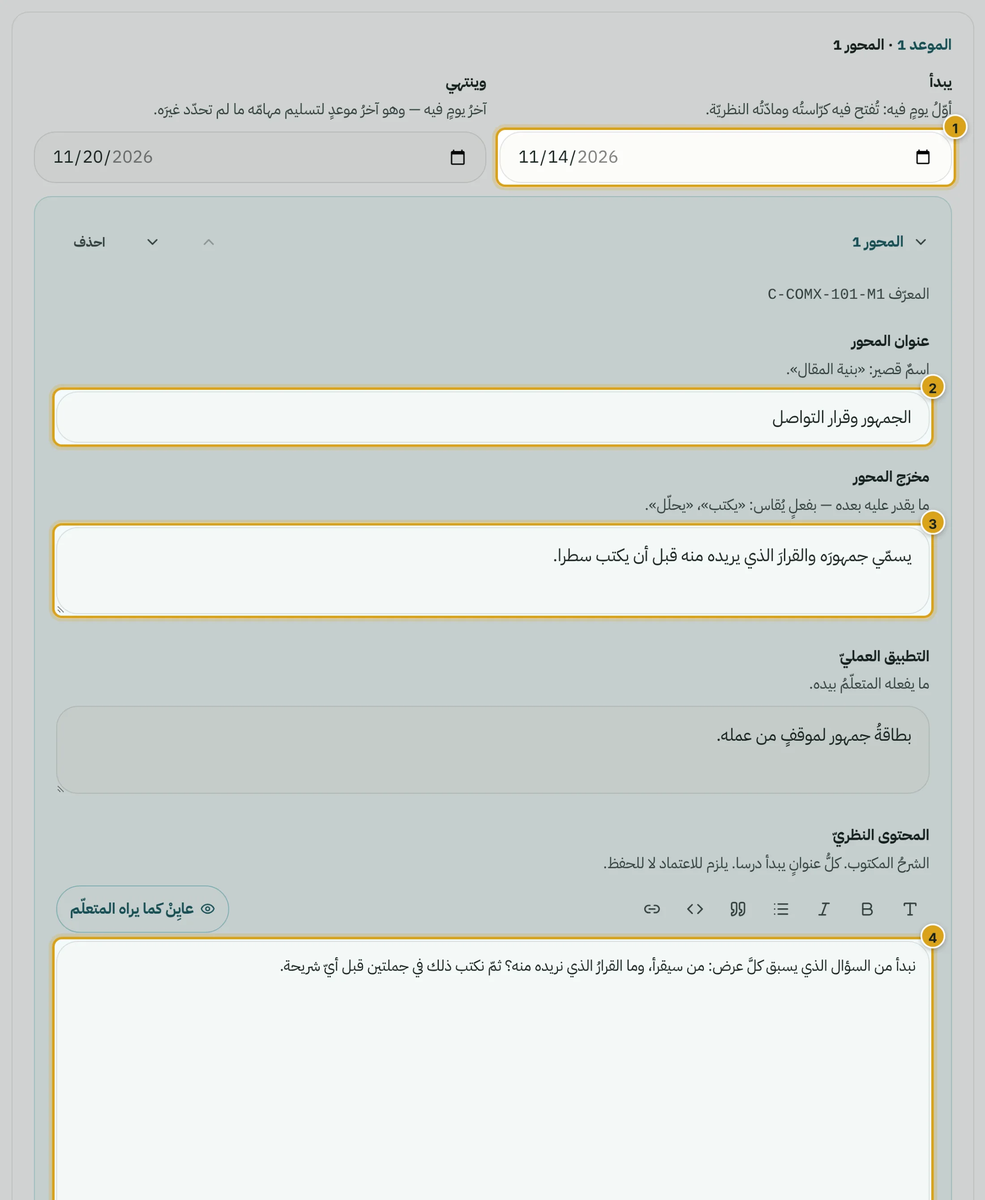
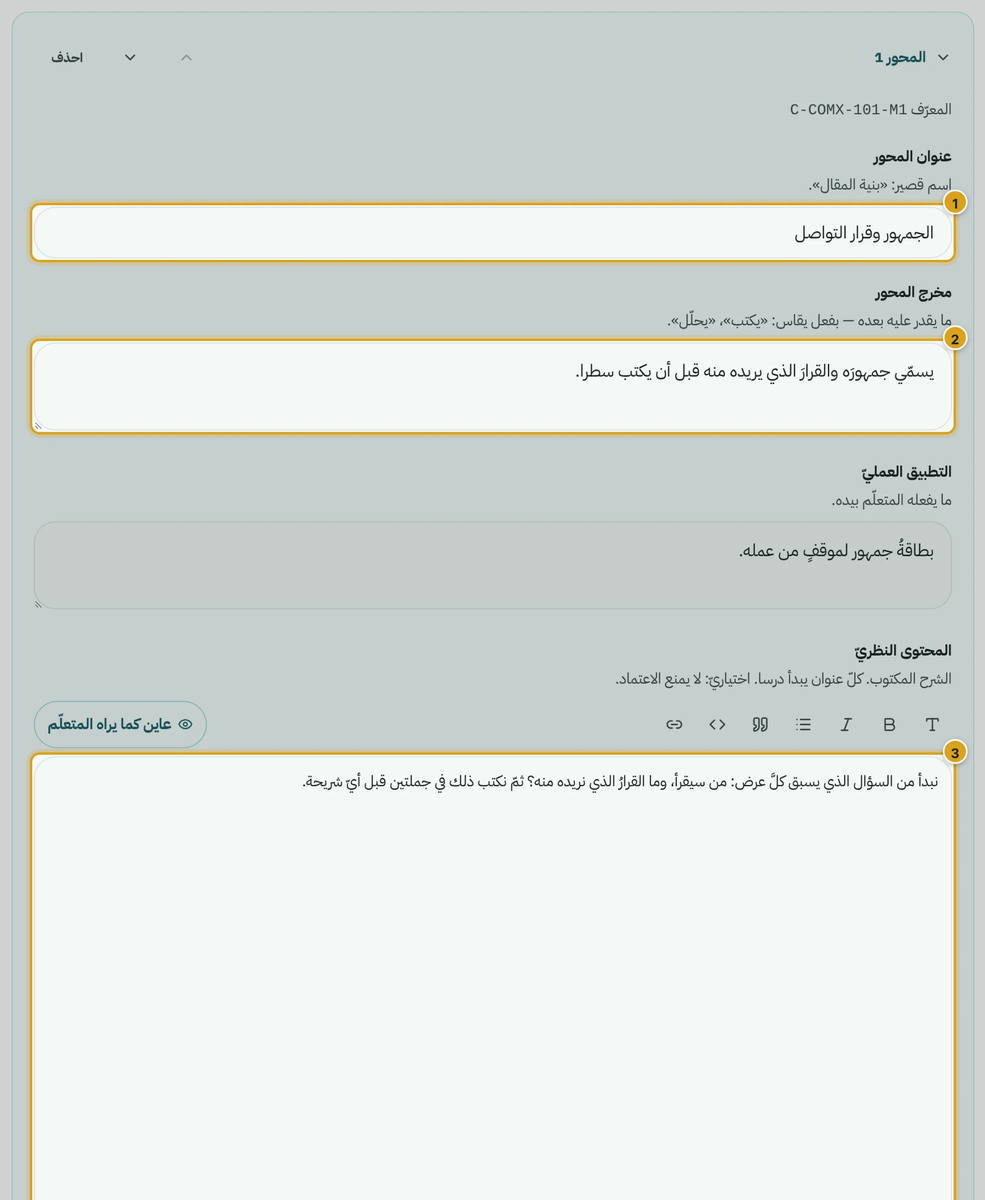
لقطاتُ الدليل بعد «مواعيد المحاور من لقاءاتها» — واللقاءُ الجديدُ على محورٍ واحد
أُعيد التقاطُ أربع لقطاتٍ في دليل المدرّب كانت تُري بطاقاتِ مواعيد المحاور التي نُزعت (#534):
«المحاور» (ws-modules) بطاقةُ المحور نفسُه بثلاثة أرقام، و«لقاءات الشعبة» (ws-meetings) بطاقةٌ
واحدةٌ بمدّة الشعبة، و«نصائح للقاءاتك» (ws-session-tips)، ونموذجُ اللقاء المباشر (ws-live-form).
وبذرُ الدليل يكتب خطّةَ الإعداد معلَّمةً `timing: 'meetings'` بلا مواعيدَ مكتوبة.

وكشف الالتقاطُ خطأً: نموذجُ اللقاء الجديد في بطاقة الشعبة كلِّها كان يُفتح على كلّ المحاور التي
لا لقاءَ لها — فيردّه الخادمُ لأنّه يخالف ترتيبَها (`meetingOrderProblem`). فصار يُفتح على أوّلها
وحدَه، ولا شيءَ إن غُطّيت كلُّها (`defaultMeetingAxes` في `session-picker.ts`). وبطاقةُ الموعد
كما كانت. ويحرسه `src/tests/trainer/session-picker.test.ts` — نُقض مرّتين فسقط: القاعدةُ تعيد
كلَّ ما لم يُغطَّ، والشاشةُ لا تناديها.

ونصوصٌ تبعت التغيير: هدفُ خطوة «اللقاءات» «بترتيب المحاور»، ونصُّ اليدويّ يدلّ على «لقاءات
الشعبة»، وفي الدليل «أيّامُ الشعبة» لا «أيّامُ الموعد»، وما تفحصه المنصّة «لقاءٌ لكلّ محورٍ بترتيب
المحاور»، وتغييرُ تاريخ البدء يُبقي اللقاءاتِ في أيّامها وينبّه إلى ما خرج منها.

لا رقمَ يقبضه إنسانٌ ولا يُخصَم تغيّر هنا.

Claude-Session: https://claude.ai/code/session_01NrSXoERiNEXErX7rsUdC8a

diff --git a/src/data/trainer-guide/content.ts b/src/data/trainer-guide/content.ts
@@ -285,7 +285,7 @@ export const GUIDE_SECTIONS: GuideSection[] = [
          ولشُعب هذا الشتاء وحدَها، كما تقولها الخطوةُ نفسُها (`start-advice.ts`) */
       { kind: 'callout', tone: 'tip', title: 'متى تبدأ؟ اقتراح ودّيّ', text: 'لشعب هذا الشتاء: لو بدأت شعبتك في ديسمبر — أو من 29 نوفمبر على الأقلّ — لاتّسع لنا الوقت لنعرّف الناس بدورتك ونسوّق لها قبل أن تبدأ. اقتراح لا شرط، والقرار قرارك.' },
       { kind: 'callout', tone: 'public', title: 'هذا ما يراه الناس — ولك أن تغيّره', text: 'اسم الشعبة يظهر للناس في صفحة الدورة لحظة تحفظه، بلا اعتماد. والنبذة تظهر بعد أن نعتمد الخطّة. أمّا السعر والسعة والإعداد الماليّ فبيد الإدارة.' },
-      { kind: 'figure', shot: 'ws-modules', alt: 'الخطوة الثانية: موعد المحور الأوّل ومحوره مفتوحا', caption: '1 بداية الموعد ونهايته · 2 «عنوان المحور» · 3 «مخرج المحور» · 4 المحتوى النظريّ' },
+      { kind: 'figure', shot: 'ws-modules', alt: 'الخطوة الثانية: المحور الأوّل مفتوحا', caption: '1 «عنوان المحور» · 2 «مخرج المحور» · 3 المحتوى النظريّ' },
       {
         kind: 'steps',
         title: 'الخطوة الثانية — «المحاور»',
@@ -302,20 +302,20 @@ export const GUIDE_SECTIONS: GuideSection[] = [
       { kind: 'callout', tone: 'tip', title: 'ابدأ من قالب وجيز', text: 'في أعلى الخطوة قالب وجيز بصيغة Word مملوءا بما كتبته في خطّتك: اسم الدورة ومدّتها ومحاورها ومواعيدها، ولكلّ محور ما يخرج به المتعلّم ومحتواه النظريّ وتطبيقه ومصادره — وفي «كرّاسة لكلّ محور» قالب كلّ كرّاسة في بطاقتها. أكمل ما بقي بين قوسين — المثال المحلول وأسئلة التأمّل — ثمّ احفظه PDF وارفعه، واختر تحته «كتبتها على قالب وجيز». والقالب يملأ بما حفظته، فاحفظ خطّتك قبل أن تنزّله.' },
       { kind: 'callout', tone: 'tip', title: 'وعندك مادّة جاهزة؟', added: '2026-10-07', text: 'ارفعها كما هي، واختر تحتها «مادّتي الجاهزة» — لا يلزمك أن تعيد صفّها على القالب. والفرق: القالب يجعل كرّاسات وجيز بشكل واحد يعرف به المتعلّم طريقه في كلّ دورة؛ ومادّتك الجاهزة يراها المعتمد ليست على القالب، فيقبلها أو يعيدها إليك بملاحظة. وأن تقول أيّهما شرط لتتمّ الخطوة، إلّا لمن رفع كرّاسة قبل القالب فهو له مستحسن.' },
       { kind: 'callout', tone: 'contract', title: WORKBOOK_RIGHTS_AR.title, added: '2026-10-07', text: WORKBOOK_RIGHTS_AR.body },
-      { kind: 'figure', shot: 'ws-meetings', alt: 'الخطوة الرابعة: لقاء المحور الأوّل بانتظار الاعتماد', caption: '1 لقاء حفظته وينتظر الاعتماد · 2 «+ لقاء مباشر» · 3 «+ جلسة مسجّلة» — متجاوران في قائمة واحدة، وما شئت من كلّ منهما' },
+      { kind: 'figure', shot: 'ws-meetings', alt: 'الخطوة الرابعة: لقاءات الشعبة بانتظار الاعتماد', caption: '1 لقاء حفظته وينتظر الاعتماد · 2 «+ لقاء مباشر» · 3 «+ جلسة مسجّلة» — متجاوران في قائمة واحدة، وما شئت من كلّ منهما' },
       {
         kind: 'steps',
         title: 'الخطوة الرابعة — «اللقاءات»',
         items: [
           { text: 'لكلّ محور لقاء مباشر واحد على الأقلّ، واللقاءات بترتيب المحاور: أوّل لقاء لكلّ محور بعد آخر لقاء لما قبله. وأضف بعد ذلك ما شئت من اللقاءات.' },
           { text: 'في «لقاءات الشعبة» قائمة واحدة: «+ لقاء مباشر» و«+ جلسة مسجّلة» متجاوران — أضف واحدا منهما أو الاثنين، وما شئت من كلّ منهما.' },
-          { text: 'اضغط «+ لقاء مباشر»: اختر المحور من القائمة باسمه — محورا أو أكثر — ثمّ اليوم، ثمّ من الساعة إلى الساعة بتوقيت عمّان، ثمّ «احفظ اللقاء». والعنوان اختياريّ: إن تركته فارغا سمّيناه باسم محوره. ويعتمد اللقاء مع خطّتك حين ترسلها.', detail: 'قائمة الأيّام فيها أيّام الموعد وحدها، وأوّل ثلاثة منها «الأنسب» لأنّ المهامّ تفتح بعد اللقاء. واللقاء ساعتان على الأقلّ. ولتغيير يوم لقاء حفظته اضغط «غيّر موعده» — من أيّام الموعد نفسها. وباعتماده ينشأ اجتماع Zoom تلقائيّا.' },
+          { text: 'اضغط «+ لقاء مباشر»: اختر المحور من القائمة باسمه — محورا أو أكثر — ثمّ اليوم، ثمّ من الساعة إلى الساعة بتوقيت عمّان، ثمّ «احفظ اللقاء». والعنوان اختياريّ: إن تركته فارغا سمّيناه باسم محوره. ويعتمد اللقاء مع خطّتك حين ترسلها.', detail: 'قائمة الأيّام فيها أيّام الشعبة وحدها. واللقاء ساعتان على الأقلّ. ولتغيير يوم لقاء حفظته اضغط «غيّر موعده» — من أيّام الشعبة نفسها. وباعتماده ينشأ اجتماع Zoom تلقائيّا.' },
           { text: 'وإن أردت إيقاعا ثابتا فاختر «تكرار أسبوعيّ (اختياريّ)» في رأس الخطوة: يوم وساعة مرّة واحدة، فيقترح لقاء في كلّ أسبوع لمحاوره التي لا لقاء لها — تعدّل أيّها ثمّ تحفظها.', detail: 'واليوم والساعة يعلّمان في المنتقي نفسه: يوم عمل، أو عطلة رسميّة (٢٥ ديسمبر و١ يناير)، أو وقت متأخّر. علامة تنصح ولا تمنع.' },
           { text: 'والجلسة المسجّلة اختياريّة: اسمها ورابطها، ومحورها من القائمة باسمه، ويوم فتحها من أيّام الشعبة. وتحفظ مع خطّتك بزرّ «احفظ».' },
         ],
       },
       { kind: 'figure', shot: 'ws-live-form', alt: 'نموذج إضافة لقاء مباشر', caption: 'نموذج اللقاء المباشر — ثمّ «احفظ اللقاء» (1)' },
-      { kind: 'figure', shot: 'ws-session-tips', alt: 'نصائح للقاءات في رأس خطوة «اللقاءات»', caption: '«نصائح للقاءاتك» في رأس الخطوة (1): ما شئت من اللقاءات، كلّ في وقت محاوره — ولا تكثر.' },
+      { kind: 'figure', shot: 'ws-session-tips', alt: 'نصائح للقاءات في رأس خطوة «اللقاءات»', caption: '«نصائح للقاءاتك» في رأس الخطوة (1): ما شئت من اللقاءات، بترتيب المحاور.' },
       /* «لا تُكثر من اللقاءات، أو اجمعها — أو اترك ذلك لي حين أعتمد» (٤ أكتوبر ٢٠٢٦) */
       { kind: 'callout', tone: 'tip', title: 'كم لقاء تضيف؟', text: 'ما شئت، ولا حدّ لعددها: ساعات أكثر جودة أعلى، فأضف ما استطعت. ولقاء واحد قد يغطّي محورين متجاورين أو أكثر إن ناسبك ذلك. وفي رأس الخطوة «نصائح للقاءاتك»، ونراجع لقاءاتك معك قبل الاعتماد.' },
       { kind: 'figure', shot: 'ws-tab-tasks', alt: 'الخطوة الخامسة: لسان المهامّ العمليّة ونموذج مهمّة بمرفق نوعه ملفّ', caption: '1 الألسنة الثلاثة — والنقطة الذهبيّة على ما لم يتمّ · 2 تعليمات اللسان وتوصياته · 3 نوع المرفق أوّلا: «ملفّ» يظهر «ارفع الملفّ»، وغيره خانة الرابط' },
@@ -762,7 +762,7 @@ export const FAQ: FaqItem[] = [
   { q: 'اعتمد توقيعي — فهل صرت مدرّبا نشطا؟', a: 'ليس بعد. اعتماد التوقيع يفتح بوّابتك ويبدأ مهلتك، ولا نوقّع به العقد. وتفعّل تلقائيّا حين نعتمد شعب دوراتك التي قبلتها كلّها، وتصلك بذلك رسالة مستقلّة.' },
   { q: 'متى توقّع الأكاديميّة عقدي؟', a: 'حين نعتمد دوراتك. قبلها اعتمدنا توقيعك وفتحنا بوّابتك، والاتفاقيّة مشروطة لم نوقّعها — فإن لم تعتمد موادّك فلا إخلال من أحد. وحين نوقّعها تصير عقدا نهائيّا غير مشروط، وتصلك نسختها بتوقيع الطرفين.' },
   { q: 'أين أكتب موادّ دوراتي؟', a: 'في «شعبي»، مرّة واحدة. اقبل الدورة في «دوراتي» تحت «دوراتك قيد الإعداد»، فتنشأ لها شعبة إعداد في «شعبي» تعبّئ فيها كلّ شيء ثمّ ترسلها — [خمسة أيّامك الأولى](#materials).' },
-  { q: 'ما الذي يجعل موادّي جيّدة لا مقبولة فقط؟', a: `المنصّة تفحص الحدّ الأدنى وحده — مواعيد المحاور وتطبيقها، ومهمّة واحدة على الأقلّ. وما يجعلها جيّدة، خانة خانة بأمثلة، في [معيار الموادّ](#standard): توصيات لا شروط، والقرار فيها قرارك.` },
+  { q: 'ما الذي يجعل موادّي جيّدة لا مقبولة فقط؟', a: `المنصّة تفحص الحدّ الأدنى وحده — لقاء لكلّ محور بترتيب المحاور، وتطبيق كلّ محور، ومهمّة واحدة على الأقلّ. وما يجعلها جيّدة، خانة خانة بأمثلة، في [معيار الموادّ](#standard): توصيات لا شروط، والقرار فيها قرارك.` },
   { q: 'لا أستطيع تعديل دورتي من «دوراتي» — لماذا؟', a: 'لأنّ «دوراتي» لا تعدّل فيها الدورة بعد اعتماد موادّها. تعديلها في «شعبي»: افتح الشعبة، وعبّئ خطواتها الستّ، ثمّ أرسلها لاعتمادنا — [مساحة الشعبة](#workspace). وإن لم تكن لك شعبة فيها فاقبلها في «دوراتي» — تحت «دوراتك قيد الإعداد» أو «دوراتك التي تعبّئها» — فتنشأ شعبتها.' },
   { q: 'ضغطت «امنحني يومين» خطأ — هل يستردّ؟', a: 'لا. وكلّ ضغطة تمديد من اثنين. فإن بقي لك تمديد فلا تضغطه إلّا حين تحتاجه.' },
   { q: 'انقضت مهلتي — هل انتهى الأمر؟', a: 'لا. ما زال إرسال شعبك يعمل إن أتممتها، ولك أن تطلب التأجيل إلى الموسم القادم بالردّ على رسالة انقضاء المهلة.' },
@@ -773,5 +773,5 @@ export const FAQ: FaqItem[] = [
   { q: 'متى تصرف مستحقّاتي؟', a: 'يعتمد كشف الشعبة خلال 15 يوما من انتهائها، ويصرف خلال 30 يوما من اعتماده، ولا يتجاوز 45 يوما من انتهائها. وقبل ذلك أدخل حسابك البنكيّ في «مستحقاتي».' },
   { q: 'كيف أبدأ لقائي في Zoom مضيفا؟', a: 'من مساحة الشعبة، خطوة «اللقاءات»: «ابدأ اللقاء مضيفا». لا من «افتح الجلسة» في الرئيسية.' },
   { q: 'هل لعدد لقاءاتي المباشرة حدّ؟', a: 'لا. أضف ما شئت — ساعات أكثر جودة أعلى — واربط كلّ لقاء بمحور أو أكثر، بترتيب المحاور — [خطوة «اللقاءات»](#workspace).' },
-  { q: 'متى أبدأ شعبتي؟', a: 'المدّة قرارك. ولشعب هذا الشتاء نقترح ديسمبر، أو 29 نوفمبر على الأقلّ — فيتّسع لنا الوقت لنسوّق دورتك قبل أن تبدأ. وإن غيّرت تاريخ البدء تبعته مواعيد المحاور.' },
+  { q: 'متى أبدأ شعبتي؟', a: 'المدّة قرارك. ولشعب هذا الشتاء نقترح ديسمبر، أو 29 نوفمبر على الأقلّ — فيتّسع لنا الوقت لنسوّق دورتك قبل أن تبدأ. وإن غيّرت تاريخ البدء بقيت لقاءاتك في أيّامها، ونبّهناك إلى ما خرج منها من المدّة لتغيّر موعده.' },
 ]

diff --git a/scripts/trainer-guide/capture.ts b/scripts/trainer-guide/capture.ts
@@ -329,16 +329,18 @@ const ACTIVE: Shot[] = [
       const p = e.page
       await open(e, `/trainer/cohort/${await cohortId(e, 'الدفعةُ الأولى')}`)
       await step(e, 2)
-      const slot = p.getByRole('listitem').filter({ has: p.getByText('الموعد 1 · المحور 1', { exact: true }) }).first()
-      await btn(slot, /^المحور 1 —/).click()
+      /* ومنذ ١٧ أكتوبر ٢٠٢٦ لا موعدَ للمحور في هذه الخطوة — مواعيدُه من لقاءاته (`planSlots`):
+         فالبطاقةُ بطاقةُ المحور نفسُه، والأرقامُ ثلاثةٌ لا أربعة */
+      /* والعنوانُ يسقط من زرّ المحور حين يُفتح — فالبطاقةُ تُعرَف بخانة عنوانها بعد الفتح */
+      await btn(p, /^المحور 1 —/).click()
       await settle(e)
+      const card = p.getByRole('listitem').filter({ has: p.getByRole('textbox', { name: 'عنوان المحور 1' }) }).first()
       await shoot(e, {
-        name: 'ws-modules', clip: slot, clipPad: 14, maxHeight: 1450,
+        name: 'ws-modules', clip: card, clipPad: 14, maxHeight: 1450,
         marks: [
-          { target: slot.getByRole('textbox', { name: 'بدايةُ الموعد 1' }), n: 1, pad: 5 },
-          { target: slot.getByRole('textbox', { name: 'عنوان المحور 1' }), n: 2, pad: 5 },
-          { target: slot.getByRole('textbox', { name: 'مخرج المحور 1' }), n: 3, pad: 5 },
-          { target: slot.getByRole('textbox', { name: 'المحتوى النظريّ للمحور 1' }), n: 4, pad: 5 },
+          { target: card.getByRole('textbox', { name: 'عنوان المحور 1' }), n: 1, pad: 5 },
+          { target: card.getByRole('textbox', { name: 'مخرج المحور 1' }), n: 2, pad: 5 },
+          { target: card.getByRole('textbox', { name: 'المحتوى النظريّ للمحور 1' }), n: 3, pad: 5 },
         ],
       })
     },
@@ -376,13 +378,14 @@ const ACTIVE: Shot[] = [
       const p = e.page
       await open(e, `/trainer/cohort/${await cohortId(e, 'الدفعةُ الأولى')}`)
       await step(e, 4)
-      const slot = p.getByRole('listitem').filter({ has: p.getByText('الموعد 1 · المحور 1', { exact: true }) }).first()
+      /* بطاقةٌ واحدةٌ بمدّة الشعبة ومحاورها كلِّها (١٧ أكتوبر ٢٠٢٦) — والنصوصُ بلا تشكيل (١١ أكتوبر) */
+      const card = p.getByRole('listitem').filter({ has: p.getByText('لقاءات الشعبة', { exact: true }) }).first()
       await shoot(e, {
-        name: 'ws-meetings', clip: slot, clipPad: 14,
+        name: 'ws-meetings', clip: card, clipPad: 14, maxHeight: 2400,
         marks: [
-          { target: slot.getByText(/ينتظر اعتمادَ الإدارة/).first(), n: 1, pad: 5 },
-          { target: btn(slot, /لقاءٌ مباشر/), n: 2, pad: 5 },
-          { target: btn(slot, /جلسةٌ مسجّلة/), n: 3, pad: 5 },
+          { target: card.getByText(/· ينتظر اعتماد الإدارة$/).first(), n: 1, pad: 5 },
+          { target: btn(card, /^\+ لقاء مباشر/), n: 2, pad: 5 },
+          { target: btn(card, /^\+ جلسة مسجّلة/), n: 3, pad: 5 },
         ],
       })
     },
@@ -394,7 +397,7 @@ const ACTIVE: Shot[] = [
       const p = e.page
       await open(e, `/trainer/cohort/${await cohortId(e, 'الدفعةُ الأولى')}`)
       await step(e, 4)
-      const title = p.getByText('نصائحُ للقاءاتك').first()
+      const title = p.getByText('نصائح للقاءاتك').first()
       await shoot(e, {
         name: 'ws-session-tips', clip: p.locator('section').filter({ has: title }).first(), clipPad: 14,
         marks: [{ target: title, n: 1, pad: 5 }],
@@ -407,10 +410,10 @@ const ACTIVE: Shot[] = [
       const p = e.page
       await open(e, `/trainer/cohort/${await cohortId(e, 'الدفعةُ الأولى')}`)
       await step(e, 4)
-      const slot = p.getByRole('listitem').filter({ has: p.getByText('الموعد 2 · المحور 2', { exact: true }) }).first()
-      await btn(slot, /لقاءٌ مباشر/).click()
+      const card = p.getByRole('listitem').filter({ has: p.getByText('لقاءات الشعبة', { exact: true }) }).first()
+      await btn(card, /^\+ لقاء مباشر/).click()
       await settle(e)
-      const send = btn(slot, /احفظ اللقاء/)
+      const send = btn(card, /احفظ اللقاء/)
       await shoot(e, {
         name: 'ws-live-form', clip: await panel(send, 500), clipPad: 14,
         marks: [{ target: send, n: 1, pad: 5 }],

diff --git a/src/tests/trainer/session-picker.test.ts b/src/tests/trainer/session-picker.test.ts
@@ -9,7 +9,7 @@ import { readFileSync } from 'node:fs'
 import { join } from 'node:path'
 import { describe, expect, it } from 'vitest'
 import {
-  dayNoteAr, firstWeekdayIn, fromClockNote, holidayOn, isWorkday, lateInSlot, suggestedSessionTitle, toClockNote, weeklyProposals, slotDayOptionAr, slotDays } from '@/application/trainer/session-picker'
+  dayNoteAr, defaultMeetingAxes, firstWeekdayIn, fromClockNote, holidayOn, isWorkday, lateInSlot, suggestedSessionTitle, toClockNote, weeklyProposals, slotDayOptionAr, slotDays } from '@/application/trainer/session-picker'
 
 const code = (p: string) =>
   readFileSync(join(process.cwd(), p), 'utf8').replace(/\{?\/\*[\s\S]*?\*\/\}?/g, '').replace(/^\s*\/\/.*$/gm, '')
@@ -105,6 +105,21 @@ describe('النموذج فارغ — المدرّب يكتب، والمنصّة
   it('ولا يحفظ لقاء قبل أن يختار يومه وساعتاه', () => {
     expect(SLOT).toMatch(/const timed = Boolean\(form\.date && form\.from && form\.to\);/)
     expect(SLOT).toMatch(/disabled=\{busy \|\| title\.length < 2 \|\| !timed \|\|/)
+  })
+
+  /* مواعيدُ المحاور من لقاءاتها (١٧ أكتوبر ٢٠٢٦): لقاءٌ جديدٌ على كلّ المحاور يخالف ترتيبَها فيُردّ */
+  it('⚠ في بطاقة الشعبة كلّها: أوّل محور بلا لقاء وحده — ولا شيء إن غطّيت كلّها', () => {
+    const axes = ['M1', 'M2', 'M3', 'M4']
+    expect(defaultMeetingAxes(axes, new Set(['M1']), true), 'فتح على كلّ ما لم يغطّ').toEqual(['M2'])
+    expect(defaultMeetingAxes(axes, new Set(), true)).toEqual(['M1'])
+    expect(defaultMeetingAxes(axes, new Set(axes), true), 'اختار عنه وكلّها مغطّاة').toEqual([])
+    expect(SLOT, 'الشاشة لا تأخذ محاورها من القاعدة').toMatch(/moduleIds: defaultMeetingAxes\(axes, covered, wholePeriod\),/)
+  })
+
+  it('وفي بطاقة الموعد كما كانت: ما لم يغطّ من محاوره — وكلّها إن غطّيت', () => {
+    const axes = ['M1', 'M2', 'M3']
+    expect(defaultMeetingAxes(axes, new Set(['M1']), false)).toEqual(['M2', 'M3'])
+    expect(defaultMeetingAxes(axes, new Set(axes), false)).toEqual(axes)
   })
 
   it('والزرّ «احفظ اللقاء» — لا «أرسله للاعتماد» في كلّ لقاء', () => {

diff --git a/src/application/trainer/session-picker.ts b/src/application/trainer/session-picker.ts
@@ -122,6 +122,17 @@ export function suggestedSessionTitle(
   return parts.join(' · ')
 }
 
+/* ═══ محاورُ اللقاء الجديد قبل أن يختار المدرّب (١٧ أكتوبر ٢٠٢٦) ═══
+
+   في بطاقة الموعد: ما لم يُغطَّ من محاوره — وكلُّها إن غُطّيت. وفي بطاقة الشعبة كلِّها (مواعيدُ
+   المحاور من لقاءاتها، `planSlots`): أوّلُ ما لم يُغطَّ وحدَه — فلقاءٌ يُفتح على كلّ المحاور يخالف
+   ترتيبَها، ويردّه الخادمُ (`meetingOrderProblem`). وإن غُطّيت كلُّها فلا شيء: يختار هو. */
+export function defaultMeetingAxes(axes: readonly string[], covered: ReadonlySet<string>, wholePeriod: boolean): string[] {
+  const uncovered = axes.filter((id) => !covered.has(id))
+  if (wholePeriod) return uncovered.slice(0, 1)
+  return uncovered.length > 0 ? uncovered : [...axes]
+}
+
 /* ═══ أيّامُ الموعد وحدَها — لا تقويمٌ مفتوح (١١ أكتوبر ٢٠٢٦) ═══
 
    قرارُ صاحب المنصّة: «يومُ اللقاء المباشر، ويومُ فتح الجلسة المسجّلة، داخلَ وقت المحور. جرّبتُه

diff --git a/src/pages/trainer/CohortWorkspace.tsx b/src/pages/trainer/CohortWorkspace.tsx
@@ -434,7 +434,7 @@ const STAGE_INTRO: Record<Stage, { title: string; purpose: string; minutes: stri
   },
   sessions: {
     title: "اللقاءات المباشرة والمسجّلة",
-    purpose: "لقاء مباشر على الأقلّ لكلّ محور داخل موعده. والمسجّلة اختياريّة.",
+    purpose: "لقاء مباشر على الأقلّ لكلّ محور، بترتيب المحاور. والمسجّلة اختياريّة.",
     minutes: "نحو ١٠ دقائق",
   },
   assignments: {
@@ -2771,7 +2771,7 @@ export default function CohortWorkspace() {
                   </div>
                   {scheduleMode === "manual" ? (
                     <p className="text-read leading-6 text-muted-foreground">
-                      اختر يوم كلّ لقاء وساعته من بطاقة موعده.
+                      {byMeetings ? "اختر يوم كلّ لقاء وساعته من «لقاءات الشعبة» أدناه." : "اختر يوم كلّ لقاء وساعته من بطاقة موعده."}
                     </p>
                   ) : (
                     <WeeklySessions

diff --git a/src/pages/trainer/SlotSessions.tsx b/src/pages/trainer/SlotSessions.tsx
@@ -61,7 +61,7 @@ import {
   SHORT_SESSION_AR, fromSlots, sessionTooShort, slotLabelAr, toMinutes, toSlotsFor,
 } from "@/application/trainer/session-length";
 import {
-  TO_LADDER_WHY_AR, dayNoteAr, fromClockNote, suggestedSessionTitle, toClockNote,
+  TO_LADDER_WHY_AR, dayNoteAr, defaultMeetingAxes, fromClockNote, suggestedSessionTitle, toClockNote,
 } from "@/application/trainer/session-picker";
 
 /** لقاءٌ كما تعرضه الورشة */
@@ -129,7 +129,8 @@ export default function SlotSessions({
   const blank = () => ({
     title: "",
     date: "", from: "", to: "", noteAr: "",
-    moduleIds: uncovered.length > 0 ? uncovered : [...axes],
+    /* وفي بطاقة الشعبة كلِّها محورٌ واحدٌ لا كلُّها — `defaultMeetingAxes` */
+    moduleIds: defaultMeetingAxes(axes, covered, wholePeriod),
   });
   const [open, setOpen] = useState(false);
   const [form, setForm] = useState(blank);

diff --git a/scripts/trainer-guide/seed.ts b/scripts/trainer-guide/seed.ts
@@ -512,7 +512,9 @@ async function seedPrepPlan(ctx: Ctx, profileId: string) {
       moduleId: m.id, titleAr: m.versions[0]?.titleAr ?? `المحور ${i + 1}`,
       outcomeAr: TEXT[i].outcome, activityAr: TEXT[i].activity, bodyAr: TEXT[i].body,
     })),
-    slots: mods.map((m, i) => ({ startsOn: day(i * 7), endsOn: day(i * 7 + 6), moduleIds: [m.id] })),
+    /* ومواعيدُ المحاور من لقاءاتها لا تُكتب (١٧ أكتوبر ٢٠٢٦، `planSlots`) — ولقاءاتُها أسبوعيّةٌ
+       بترتيب المحاور أدناه */
+    timing: 'meetings',
     /* كرّاسةٌ واحدةٌ للدورة، وموضعُ كلّ محورٍ فيها (٣٠ سبتمبر ٢٠٢٦) — وإقرارُ قالب
        وجيز (٦ أكتوبر ٢٠٢٦): مدرّبُ الدليل جديدٌ فالإقرارُ له شرط */
     workbook: {

diff --git a/src/data/trainer-guide/shots.ts b/src/data/trainer-guide/shots.ts
@@ -133,20 +133,20 @@ export const GUIDE_SHOTS: Record<string, { w: number; h: number }> = {
     "h": 1684
   },
   "ws-live-form": {
-    "w": 1644,
-    "h": 1374
+    "w": 2200,
+    "h": 1620
   },
   "ws-meetings": {
     "w": 2200,
-    "h": 876
+    "h": 2850
   },
   "ws-modules": {
     "w": 2200,
     "h": 2678
   },
   "ws-session-tips": {
-    "w": 1752,
-    "h": 1012
+    "w": 2200,
+    "h": 758
   },
   "ws-sources": {
     "w": 2200,
